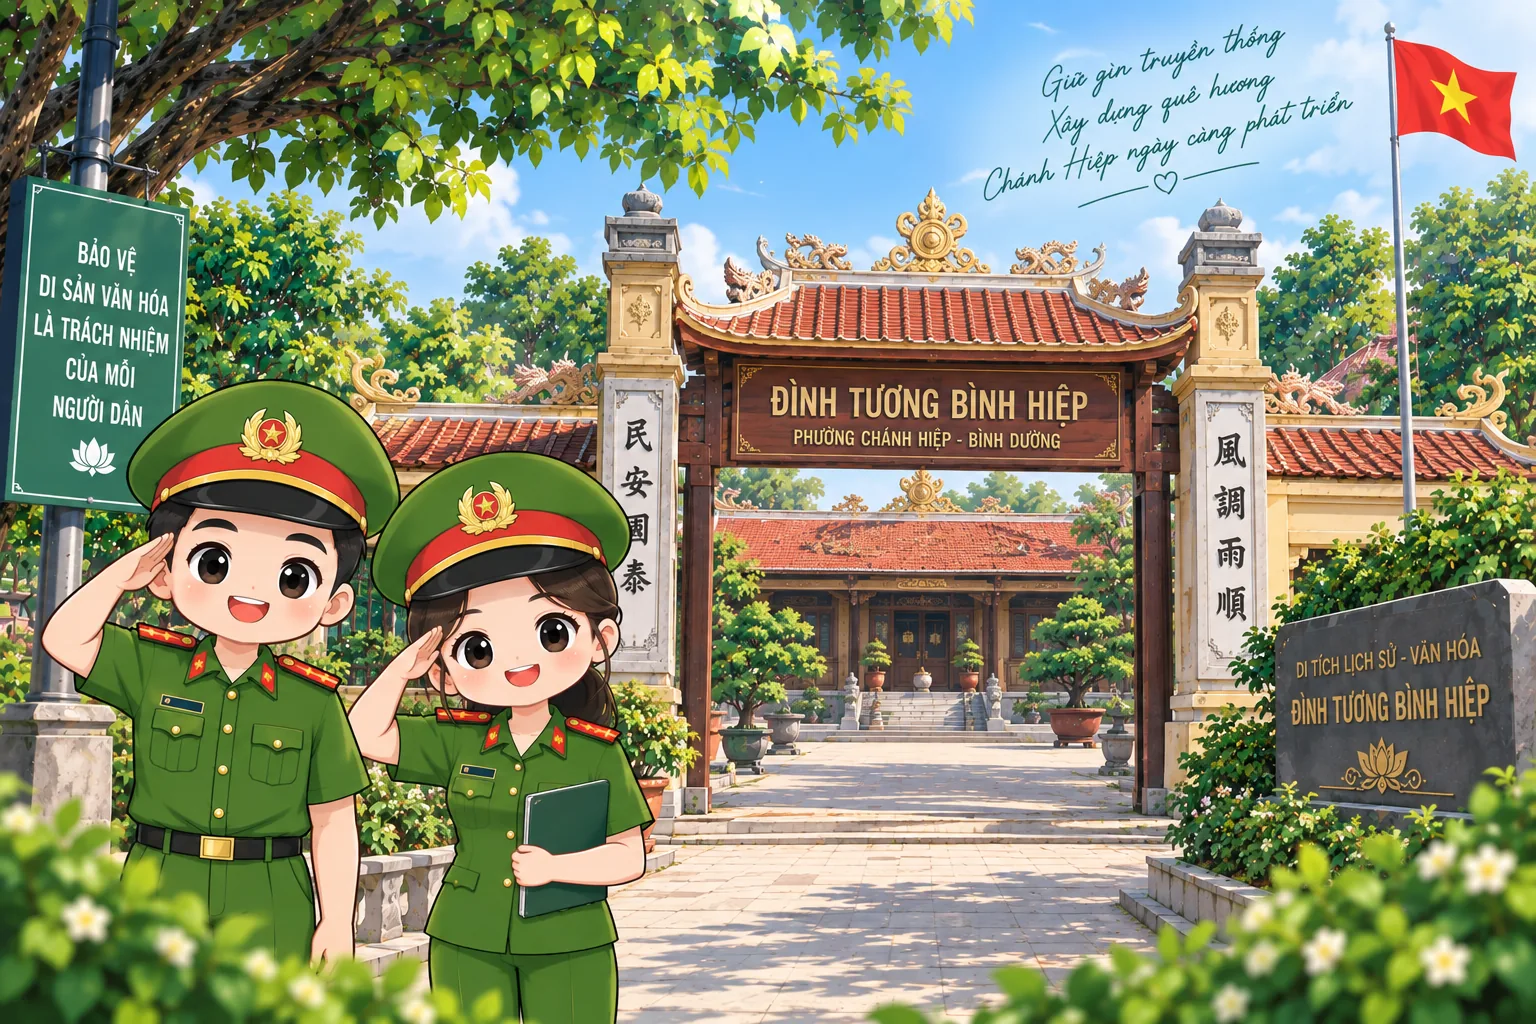
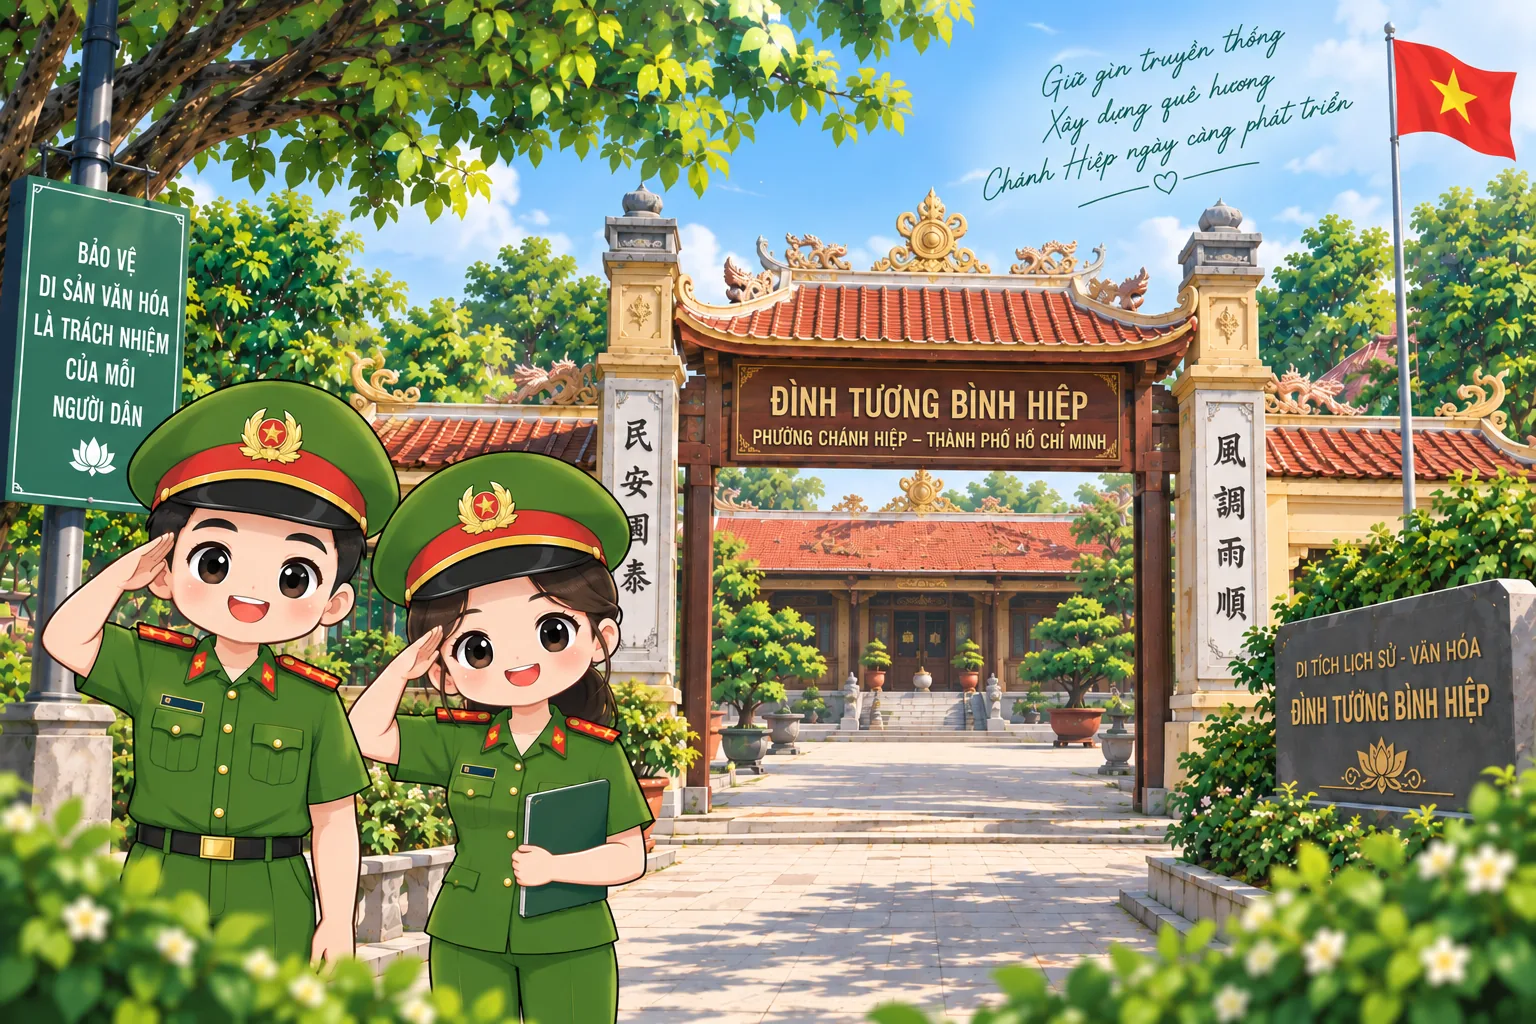
Them giao dien dinh kem tai lieu, sua buoc huong dan an danh, cap nhat lien he va anh
1. THEM GIAO DIEN DINH KEM TAI LIEU (truoc chi co phan may chu): nut chon tep PDF hoac Word, danh sach tep da chon co nut bo tung tep, toi da 3 tep moi tep 10MB. Giai thich ro tai lieu dung lam gi vi ba con khieu nai thuong khong nghi toi viec gui kem giay to, cu chup anh tung trang. Noi vao kieu du lieu, trang gui y kien va luong gui len may chu. 2. SUA BUOC HUONG DAN VE O GUI AN DANH: buoc nay noi ve o gui an danh nhung khong chi duoc vao dau. Nguyen nhan: o do CHI hien o nhom to giac toi pham, ma khi ba con dang go do thi huong dan giu nguyen ban nhap cua ho nen nhom viec con trong — man hinh khong co gi de chi, huong dan noi suong. Nay dat tam nhom to giac de o hien ra; an toan vi ban nhap that da cat nguyen ven va duoc tra lai day du khi xong huong dan. Da kiem thuc te: buoc do gio co khoanh va o an danh that su hien tren trang. 3. CAP NHAT LIEN HE: so truc ban 0274 3827 132 va duong dan Facebook cua don vi, sua o ca hai tep cau hinh. 4. THAY HAI ANH NEN bang ban da sua dia gioi: dinh Tuong Binh Hiep va lang nghe son mai gio ghi dung THANH PHO HO CHI MINH thay vi Binh Duong. KIEM THU: 338/338 dat. TypeScript: 0 loi.

diff --git a/src/components/FeedbackForm/ContentInput.tsx b/src/components/FeedbackForm/ContentInput.tsx
@@ -3,7 +3,7 @@
  * Ảnh được nén ngay trên trình duyệt trước khi lưu.
  */
 import { ChangeEvent, useRef, useState } from 'react';
-import { AlertCircle, ImagePlus, Loader2, X, RotateCcw, ListChecks, ShieldQuestion, Camera, ShieldCheck, Video } from 'lucide-react';
+import { AlertCircle, ImagePlus, Loader2, X, RotateCcw, ListChecks, ShieldQuestion, Camera, ShieldCheck, Video, FileText, FilePlus } from 'lucide-react';
 import { useNgonNgu } from '../../i18n/useNgonNgu';
 
 import NutGuiViTri from './NutGuiViTri';
@@ -361,17 +361,76 @@ export default function ContentInput({ value, onChange, urgency = 'normal', onUr
         <p className="mt-1.5 text-xs text-slate-400">{t('cn.hoTroJpg').replace('{mb}', String(MAX_FILE_MB))}</p>
       </div>
 
-      {/* ĐÃ BỎ HẲN PHẦN VIDEO MINH CHỨNG.
+      {/* ================= TÀI LIỆU ĐÍNH KÈM ================= */}
+      {onTaiLieuChange && (
+        <div className="mt-5">
+          <p className="mb-1 text-sm font-semibold text-slate-700 dark:text-slate-200">
+            Tài liệu đính kèm{' '}
+            <span className="font-normal text-slate-400">
+              (PDF hoặc Word, tối đa {MAX_SO_TAI_LIEU} tệp, không bắt buộc)
+            </span>
+          </p>
+          {/* Nói rõ tài liệu dùng làm gì — bà con khiếu nại thường không nghĩ
+              tới việc gửi kèm giấy tờ, cứ chụp ảnh từng trang. */}
+          <p className="mb-2 flex items-start gap-1.5 text-xs leading-snug text-slate-500 dark:text-slate-400">
+            <FileText className="mt-px h-3.5 w-3.5 shrink-0" />
+            <span>
+              Có đơn đã nộp, quyết định, biên bản thì gửi kèm ở đây, rõ hơn chụp ảnh nhiều.
+              Tệp được kiểm an toàn trước khi nhận.
+            </span>
+          </p>
 
-          Lý do bỏ: kho ảnh của đơn vị chỉ cho phép ảnh, từ chối mọi định dạng
-          video. Video đành đi kèm ngay trong gói dữ liệu, phình quá giới hạn
-          máy chủ và làm hỏng CẢ việc gửi ý kiến — bà con bấm gửi mà nút quay
-          mãi rồi mất luôn bài viết.
+          {taiLieu.length > 0 && (
+            <ul className="mb-2 space-y-1.5">
+              {taiLieu.map((t, i) => (
+                <li
+                  key={i}
+                  className="flex items-center gap-2 rounded-xl border border-slate-200 bg-slate-50 px-3 py-2 dark:border-slate-700 dark:bg-slate-800/60"
+                >
+                  <FileText className="h-4 w-4 shrink-0 text-primary-600" />
+                  <span className="min-w-0 flex-1 truncate text-sm text-slate-700 dark:text-slate-200">
+                    {t.ten}
+                  </span>
+                  <button
+                    type="button"
+                    onClick={() => onTaiLieuChange(taiLieu.filter((_, k) => k !== i))}
+                    aria-label={`Bỏ tệp ${t.ten}`}
+                    className="shrink-0 rounded-lg p-1 text-slate-500 transition hover:bg-red-50 hover:text-red-600 dark:hover:bg-slate-700"
+                  >
+                    <X className="h-4 w-4" />
+                  </button>
+                </li>
+              ))}
+            </ul>
+          )}
 
-          Thay bằng ĐÍNH KÈM TÀI LIỆU (PDF, Word) bên dưới, thứ mà người khiếu
-          nại tố cáo cần hơn nhiều: đơn đã nộp, quyết định hành chính bị khiếu
-          nại, biên bản. Trước đây họ phải chụp ảnh từng trang, vừa khó đọc
-          vừa dễ sót. */}
+          {taiLieu.length < MAX_SO_TAI_LIEU && (
+            <button
+              type="button"
+              onClick={() => taiLieuRef.current?.click()}
+              disabled={dangDocTL}
+              data-hd="nut-tai-lieu"
+              className="inline-flex min-h-[44px] items-center gap-2 rounded-xl border-2 border-dashed border-slate-300 px-4 py-2.5 text-sm font-semibold text-slate-500 transition hover:border-primary-400 hover:text-primary-600 disabled:opacity-60 dark:border-slate-600 dark:text-slate-300"
+            >
+              {dangDocTL ? <Loader2 className="h-4 w-4 animate-spin" /> : <FilePlus className="h-4 w-4" />}
+              {dangDocTL ? 'Đang đọc tệp...' : 'Chọn tệp PDF hoặc Word'}
+            </button>
+          )}
+
+          <input
+            ref={taiLieuRef}
+            type="file"
+            accept=".pdf,.doc,.docx,application/pdf,application/msword,application/vnd.openxmlformats-officedocument.wordprocessingml.document"
+            multiple
+            onChange={chonTaiLieu}
+            className="hidden"
+            aria-hidden
+          />
+          <p className="mt-1.5 text-xs text-slate-400">
+            Tối đa {MAX_TAI_LIEU_MB}MB mỗi tệp. Không nhận tệp Word có macro vì có thể chứa mã độc.
+          </p>
+        </div>
+      )}
 
       {/* ================= VỊ TRÍ VỤ VIỆC ================= */}
       {onViTriChange && (

diff --git a/src/pages/SendFeedbackPage.tsx b/src/pages/SendFeedbackPage.tsx
@@ -99,7 +99,16 @@ export default function SendFeedbackPage() {
              dung đó. */
           if (hienTai.content.trim().length > 0) {
             nhapThat.current = hienTai;
-            return hienTai;
+            /* ⚠ VẪN PHẢI ĐẶT NHÓM TỐ GIÁC, dù giữ nguyên chữ bà con đã gõ.
+
+               Ô "Gửi ẩn danh" CHỈ hiện ở nhóm tố giác tội phạm. Bà con đang gõ
+               dở mà chưa chọn nhóm thì nhóm còn trống, nên tới bước hướng dẫn
+               về gửi ẩn danh, màn hình không có gì để chỉ — hướng dẫn nói suông
+               còn bà con không thấy ô đó ở đâu.
+
+               Đặt tạm nhóm tố giác để ô hiện ra. An toàn vì bản nháp thật đã
+               cất nguyên vẹn ở trên và được trả lại đầy đủ khi xong hướng dẫn. */
+            return { ...hienTai, category: 'to_giac' as const };
           }
           nhapThat.current = hienTai;
           return {
@@ -108,7 +117,7 @@ export default function SendFeedbackPage() {
             analysis: null,
             category: 'to_giac',
             contact: { ...EMPTY_CONTACT, fullName: 'Nguyễn Văn A', phone: '0901234567' },
-            images: [], viTri: null,
+            images: [], taiLieu: [], viTri: null,
           };
         });
       }
@@ -236,7 +245,7 @@ export default function SendFeedbackPage() {
   };
 
   const handleReset = () => {
-    setDraft({ content: '', urgency: 'normal', analysis: null, category: null, contact: EMPTY_CONTACT, images: [], viTri: null });
+    setDraft({ content: '', urgency: 'normal', analysis: null, category: null, contact: EMPTY_CONTACT, images: [], taiLieu: [], viTri: null });
     clearDraft();
     setSubmission(null);
     setStep(1);
@@ -313,12 +322,14 @@ export default function SendFeedbackPage() {
             onUrgencyChange={(u) => setDraft((d) => ({ ...d, urgency: u }))}
             draftRestored={draftRestored}
             onDismissDraft={() => {
-              setDraft({ content: '', urgency: 'normal', analysis: null, category: null, contact: EMPTY_CONTACT, images: [], viTri: null });
+              setDraft({ content: '', urgency: 'normal', analysis: null, category: null, contact: EMPTY_CONTACT, images: [], taiLieu: [], viTri: null });
               clearDraft();
               setDraftRestored(false);
             }}
             images={draft.images}
             onImagesChange={(images) => setDraft((d) => ({ ...d, images }))}
+            taiLieu={draft.taiLieu}
+            onTaiLieuChange={(taiLieu) => setDraft((d) => ({ ...d, taiLieu }))}
             viTri={draft.viTri}
             onViTriChange={(viTri) => setDraft((d) => ({ ...d, viTri }))}
             onNext={handleContentNext}

diff --git a/src/services/feedbackService.ts b/src/services/feedbackService.ts
@@ -150,6 +150,10 @@ export async function submitFeedback(draft: FeedbackDraft): Promise<FeedbackSubm
         phone: draft.contact.phone.trim(),
         email: draft.contact.email.trim() || undefined,
         images: await prepareImages(draft.images),
+        /* Tài liệu gửi thẳng dạng chuỗi — máy chủ kiểm an toàn bốn lớp trước
+           khi lưu (lib/tai-lieu-an-toan.js). Không qua kho ảnh vì kho ảnh chỉ
+           nhận ảnh, và tài liệu cần kiểm nội dung chứ không chỉ lưu trữ. */
+        taiLieu: draft.taiLieu ?? [],
         /* Toạ độ nơi xảy ra vụ việc — người dân TỰ NGUYỆN bấm nút gửi.
            Không bấm thì trường này rỗng, máy chủ bỏ qua. */
         viTri: draft.viTri ?? null,

diff --git a/src/utils/constants.ts b/src/utils/constants.ts
@@ -38,10 +38,10 @@ export const UNIT = {
   communeName: 'phường Chánh Hiệp',
   province: 'Thành phố Hồ Chí Minh',
   address: 'Trụ sở Công an phường Chánh Hiệp, Thành phố Hồ Chí Minh',
-  hotline: '069 3630 000',
+  hotline: '0274 3827 132',
   emergency: '113',
   email: 'conganphuongchanhhiep@tphcm.gov.vn',
-  facebookUrl: 'https://www.facebook.com/congantphcm',
+  facebookUrl: 'https://www.facebook.com/profile.php?id=61569502381565',
   websiteUrl: 'https://congan.tphcm.gov.vn',
   /* ==========================================================================
      NHÓM ZALO CỦA ĐỊA BÀN — ba trường, một nguồn duy nhất

diff --git a/src/types/feedback.ts b/src/types/feedback.ts
@@ -79,6 +79,8 @@ export interface FeedbackDraft {
   contact: ContactInfo;
   /** Ảnh minh chứng (data URL đã nén, tối đa MAX_FEEDBACK_IMAGES tấm) */
   images: string[];
+  /** Tài liệu đính kèm (PDF, Word) — cho người khiếu nại tố cáo gửi giấy tờ */
+  taiLieu?: { ten: string; data: string }[];
   /** Toạ độ nơi XẢY RA VỤ VIỆC — do người dân TỰ NGUYỆN bấm nút gửi.
       Không bấm thì để trống, ý kiến vẫn gửi bình thường. */
   viTri?: { lat: number; lng: number; doChinhXacMet?: number } | null;

diff --git a/server/src/lib/unit.js b/server/src/lib/unit.js
@@ -14,6 +14,6 @@ export const UNIT = {
   communeName: 'phường Chánh Hiệp',
   province: 'Thành phố Hồ Chí Minh',
   address: 'Trụ sở Công an phường Chánh Hiệp, Thành phố Hồ Chí Minh',
-  hotline: '069 3630 000',
+  hotline: '0274 3827 132',
   emergency: '113',
 };
